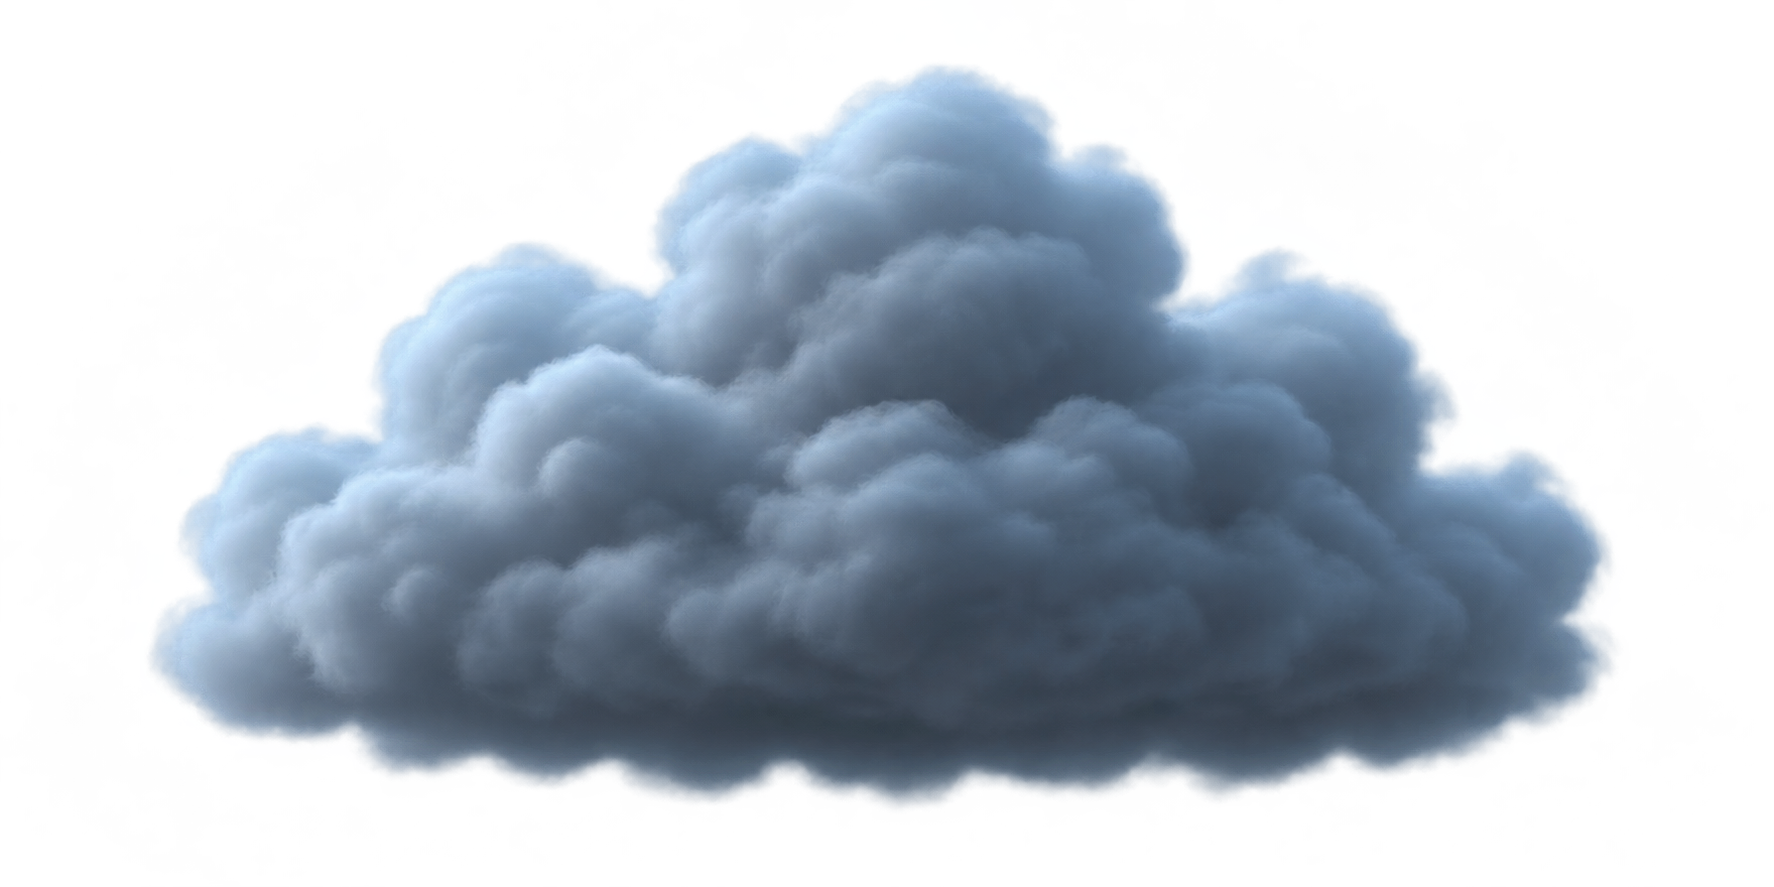
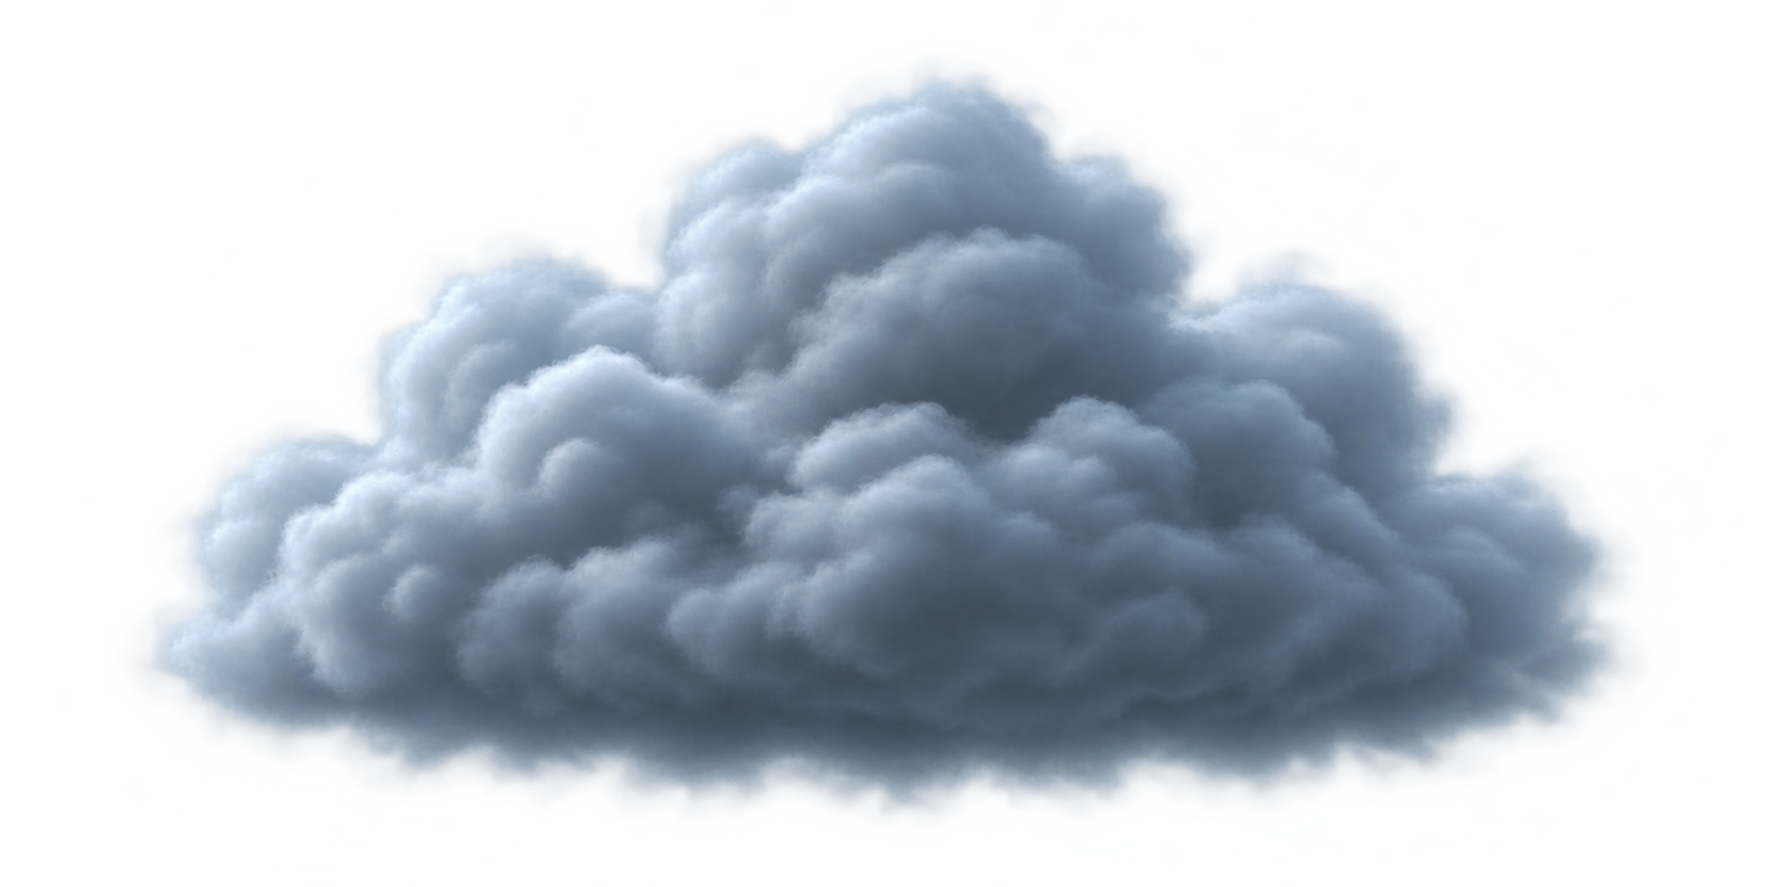
Increase local rain intensity and soften cloud cutout edges

diff --git a/scripts/rain-preview/local-cloud.js b/scripts/rain-preview/local-cloud.js
@@ -5,10 +5,12 @@ const IMAGE = { width: 1672, height: 941 }
 const REGION = { left: 566, top: 65, width: 540, height: 420 }
 const ROOF = { left: 722, right: 945, y: 378 }
 const CLOUD = { x: 836, y: 204, width: 410 }
-const MAX_RAIN = 96
+const MAX_RAIN = 320
 const MAX_DROPLETS = 128
 const MAX_CROWNS = 32
 const FPS = 30
+// Keep fine rain sparse, then open up the upper end to four times the old rate.
+const rainPerSecond = strength => 180 * strength + 540 * strength ** 3
 
 function sprite(width, height, paint) {
   const canvas = document.createElement('canvas')
@@ -34,7 +36,7 @@ export async function createLocalCloud(slot, report) {
     const response = await fetch('/raincloud.png', { signal: aborter.signal })
     if (!response.ok) throw new Error('雨云图片加载失败')
     const blob = await response.blob()
-    bitmap = await createImageBitmap(blob, { resizeWidth: 512, resizeQuality: 'high', imageOrientation: 'flipY' })
+    bitmap = await createImageBitmap(blob, { resizeWidth: 512, resizeQuality: 'high', imageOrientation: 'flipY', premultiplyAlpha: 'none' })
     if (!slot.isConnected) throw new Error('Preview switched during loading')
   } catch (error) { bitmap?.close(); throw error }
   finally { window.removeEventListener('pagehide', onPageHide) }
@@ -59,6 +61,20 @@ export async function createLocalCloud(slot, report) {
   cloudTexture.needsUpdate = true
   const cloudGeometry = new T.PlaneGeometry(CLOUD.width, CLOUD.width * bitmap.height / bitmap.width)
   const cloudMaterial = new T.MeshBasicMaterial({ map: cloudTexture, transparent: true, depthWrite: false, depthTest: false })
+  // Trim the remaining matte fringe and feather alpha without another texture.
+  cloudMaterial.onBeforeCompile = shader => {
+    shader.uniforms.cloudTexel = { value: new T.Vector2(1 / bitmap.width, 1 / bitmap.height) }
+    shader.fragmentShader = 'uniform vec2 cloudTexel;\n' + shader.fragmentShader
+    shader.fragmentShader = shader.fragmentShader.replace('#include <map_fragment>', `
+      #include <map_fragment>
+      vec2 feather = cloudTexel * 2.0;
+      float edgeAlpha = min(
+        min(texture2D(map, vMapUv + vec2(feather.x, 0.0)).a, texture2D(map, vMapUv - vec2(feather.x, 0.0)).a),
+        min(texture2D(map, vMapUv + vec2(0.0, feather.y)).a, texture2D(map, vMapUv - vec2(0.0, feather.y)).a)
+      );
+      diffuseColor.a *= smoothstep(0.08, 0.95, edgeAlpha);
+    `)
+  }
   const cloud = new T.Mesh(cloudGeometry, cloudMaterial)
   cloud.position.set(CLOUD.x, -CLOUD.y, 3)
   cloud.renderOrder = 5
@@ -135,7 +151,7 @@ export async function createLocalCloud(slot, report) {
       particle.color.w = particle.startColor.w * Math.max(0, 1 - progress)
     })],
   })
-  const rainRate = new Q.ConstantValue(180 * strength)
+  const rainRate = new Q.ConstantValue(rainPerSecond(strength))
   const roofY = x => ROOF.y + Math.max(0, 732 - x) * .35 + Math.max(0, x - 936) * .35
   const rain = new Q.ParticleSystem({
     duration: 1, looping: true, worldSpace: true, material: materials[0],
@@ -169,6 +185,7 @@ export async function createLocalCloud(slot, report) {
   systems.forEach(system => { scene.add(system.emitter); batch.addSystem(system) })
   const publish = fps => {
     canvas.dataset.rain = String(rain.particleNum)
+    canvas.dataset.rainRate = String(Math.round(rainRate.value))
     canvas.dataset.splash = String(droplets.particleNum + crowns.particleNum)
     canvas.dataset.hits = String(hits)
     canvas.dataset.phase = phase.toFixed(3)
@@ -211,7 +228,7 @@ export async function createLocalCloud(slot, report) {
   return {
     setAmount(value) {
       strength = Math.max(0, Math.min(1, value))
-      rainRate.value = 180 * strength
+      rainRate.value = rainPerSecond(strength)
       cloud.visible = strength > 0
       if (!strength) {
         systems.forEach(system => system.restart())

diff --git a/docs/DEVELOPMENT.md b/docs/DEVELOPMENT.md
@@ -87,7 +87,7 @@ Go 1.27.3 标准库 `crypto/internal/fips140/drbg` 的固定 32 MiB 可写静态
 
 ## 开发验收原则
 
-雨效选型预览位于 `scripts/rain-preview/`，`npm ci --ignore-scripts` 后 `npm start`，仅在 `127.0.0.1:5194` 提供浏览器页面；不进入正式前端或 exe，不接硬件／天气。锁定 tsParticles 4.5.3 与 three.quarks 0.17.1，六种配置共用同一场景、0–100 雨量、30 fps 上限、原景对照／暂停／纯净观景；只运行当前候选，切换销毁画布与计时器，隐藏暂停。选择仅写预览独立偏好，最终接入与原生内存对比待用户选定后开展。已验证组件切换只有一个画布且无控制台错误。第六款 local-cloud.js 使用透明乌云（运行时缩至 512px）、源图坐标定位的局部画布与三个复用 quarks 系统，雨滴碰撞机顶后停止并发射水珠／水冠；粒子上限分别为 96／128／32，DPR 1、30 fps，不创建逐次碰撞系统。零雨量清空隐藏乌云，暂停停止推进，四背景与纯净观景沿用同一机顶坐标；已验证零雨量、暂停／恢复、原景对照、四背景及切换，截图位于 build/diagnostics/rain-gallery/cloud-preview.jpg。这不等于已测正式版总内存。
+雨效选型预览位于 `scripts/rain-preview/`，`npm ci --ignore-scripts` 后 `npm start`，仅在 `127.0.0.1:5194` 提供浏览器页面；不进入正式前端或 exe，不接硬件／天气。锁定 tsParticles 4.5.3 与 three.quarks 0.17.1，六种配置共用同一场景、0–100 雨量、30 fps 上限、原景对照／暂停／纯净观景；只运行当前候选，切换销毁画布与计时器，隐藏暂停。选择仅写预览独立偏好，最终接入与原生内存对比待用户选定后开展。已验证组件切换只有一个画布且无控制台错误。第六款 local-cloud.js 使用透明乌云（运行时缩至 512px）、源图坐标定位的局部画布与三个复用 quarks 系统，雨滴碰撞机顶后停止并发射水珠／水冠；粒子上限分别为 320／128／32，DPR 1、30 fps，不创建逐次碰撞系统。雨量采用 180s + 540s³（s 为 0–1），最大 720 滴／秒，为初版四倍；水花上限不变。云图已清理黑色边缘，位图禁预乘 alpha，材质沿轮廓取邻近 alpha 渐隐，不增加纹理。零雨量清空隐藏乌云，暂停停止推进，四背景与纯净观景沿用同一机顶坐标；已验证零雨量、暂停／恢复、原景对照、四背景及切换，截图位于 build/diagnostics/rain-gallery/cloud-preview.jpg。这不等于已测正式版总内存。
 
 天气雨景：`frontend/src/lib/weather.ts` 只在面板实时舞台中请求固定 HTTPS `api.open-meteo.com`／`geocoding-api.open-meteo.com`，生产 CSP 仅增加这两个连接来源；不经过硬件串行队列、不增加 Go 后台轮询。请求 10 秒超时、64 KiB 响应上限、禁凭据／跳转，校验城市坐标、当前天气字段／代码／时间；15 分钟刷新，30 分钟到期停止沿用缓存，隐藏取消请求，卸载取消定时器及请求。`weather-settings.tsx` 负责搜索／选择和临时预览，偏好纳入 `settings-history.ts`。雨丝直接并入 `LiveSceneStage` 原片元程序，复用现有纹理／画布／时钟，雨天最高 24 fps（场景切换仍最多 30 fps），减少动态效果时仅静态绘制。未引入视频、雨景图集或额外依赖；生成效果图仅用于设计确认，不进入发布资源。
 

diff --git a/scripts/rain-preview/README.md b/scripts/rain-preview/README.md
@@ -13,7 +13,9 @@
 
 页面呈现帧率与粒子数量，不把 JS 堆或纹理数误称为软件总内存。最终选定后需在原生面板重新比较开销。
 
-第 06 款「小乌云淋雨」按已批准示意加入：云宽略大于电脑，轻浮、局部降雨、机顶碰撞后喷溅。雨与两类水花由 three.quarks 驱动，共用一个局部画布，按源图坐标对齐四时段背景；30 fps、DPR 1，雨滴／飞溅水珠／水冠分别上限 96／128／32，不为每次碰撞新建系统。雨量为零清空并隐藏云，暂停／隐藏停止动画，切换释放上下文、纹理、位图和计时器。预览保持完整背景，纯净观景可放大查看。
+第 06 款「小乌云淋雨」按已批准示意加入：云宽略大于电脑，轻浮、局部降雨、机顶碰撞后喷溅。雨与两类水花由 three.quarks 驱动，共用一个局部画布，按源图坐标对齐四时段背景；30 fps、DPR 1，雨滴／飞溅水珠／水冠分别上限 320／128／32，不为每次碰撞新建系统。雨量为零清空并隐藏云，暂停／隐藏停止动画，切换释放上下文、纹理、位图和计时器。预览保持完整背景，纯净观景可放大查看。
 
 `raincloud.png` 为依据用户批准概念用 imagegen 生成的透明乌云素材（仅云、无雨／电脑／文字），运行时缩为 512px 宽；不是逐帧图集。浏览器已检查碰撞／水花、零雨量、暂停／恢复、原景对照、四背景、纯净观景与组件切换；本轮未测原生总内存。
+
+雨量曲线为 `180s + 540s³`（s 为 0–1），最大 720 滴／秒，是初版四倍，保留低端细雨；水花数量上限不随雨量增加。云图用内置 imagegen 编辑，提示为「保留云形与光照，清除黑色抠图边及散落杂色，轮廓半透明渐隐，背景真正透明，无新增元素」；沿用 `raincloud.png`。加载禁用预乘 alpha，并在云材质上收紧／渐隐边缘，避免黑色晕边，不增加纹理。浏览器实测最大档约 289 在场雨滴、小雨约 13，归零清空；这不是原生内存测量。
 

diff --git a/docs/PRODUCT.md b/docs/PRODUCT.md
@@ -2,7 +2,7 @@
 
 ## 天气雨景
 
-雨景改版选型：用户要求优先成熟组件，先在浏览器同场景比较真实动效，支持手动调节雨量；选定后再替换正式雨效。已批准新增局部雨云方向：乌云略宽于小电脑、在上方轻浮，雨只从云下落到机顶，接触后溅起细小水花；沿用示意图大小与明显程度，保持电脑正面清晰，继续优先低内存。未来按天气降雨量自动驱动同一强度参数，尚未纳入正式版。
+雨景改版选型：用户要求优先成熟组件，先在浏览器同场景比较真实动效，支持手动调节雨量；选定后再替换正式雨效。已批准新增局部雨云方向：乌云略宽于小电脑、在上方轻浮，雨只从云下落到机顶，接触后溅起细小水花；沿用示意图大小与明显程度，保持电脑正面清晰，继续优先低内存。雨量高端增加密度、低端保留细雨，乌云消除黑色抠图边并沿轮廓渐隐透明。未来按天气降雨量自动驱动同一强度参数，尚未纳入正式版。
 
 手动搜索并选择城市，记住在本机；开关仅控制软件背景的降雨效果，不改变场景、显示器亮度或色温。第一版只表现雨，复用新版舞台的同一画布；当前版背景保持原样。面板可见时按需读取 Open-Meteo 当前天气，每 15 分钟刷新，隐藏时暂停请求和绘制，关闭面板释放资源。读取失败明确提示，超过 30 分钟的缓存不继续播放雨；不把天气模型数据宣传为窗外传感器实测。提供短暂雨景预览，方便无雨时验收；不持久化预览状态。
 
